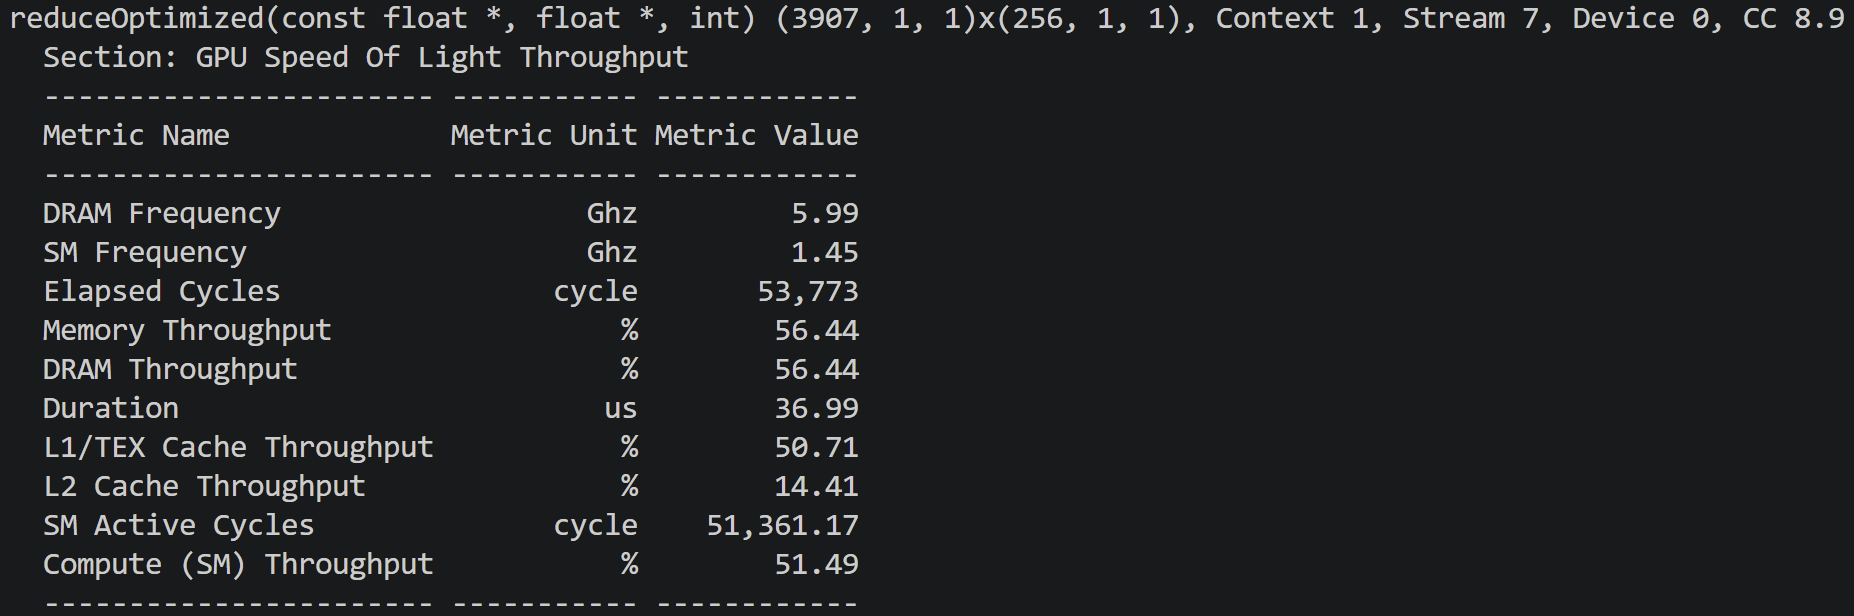
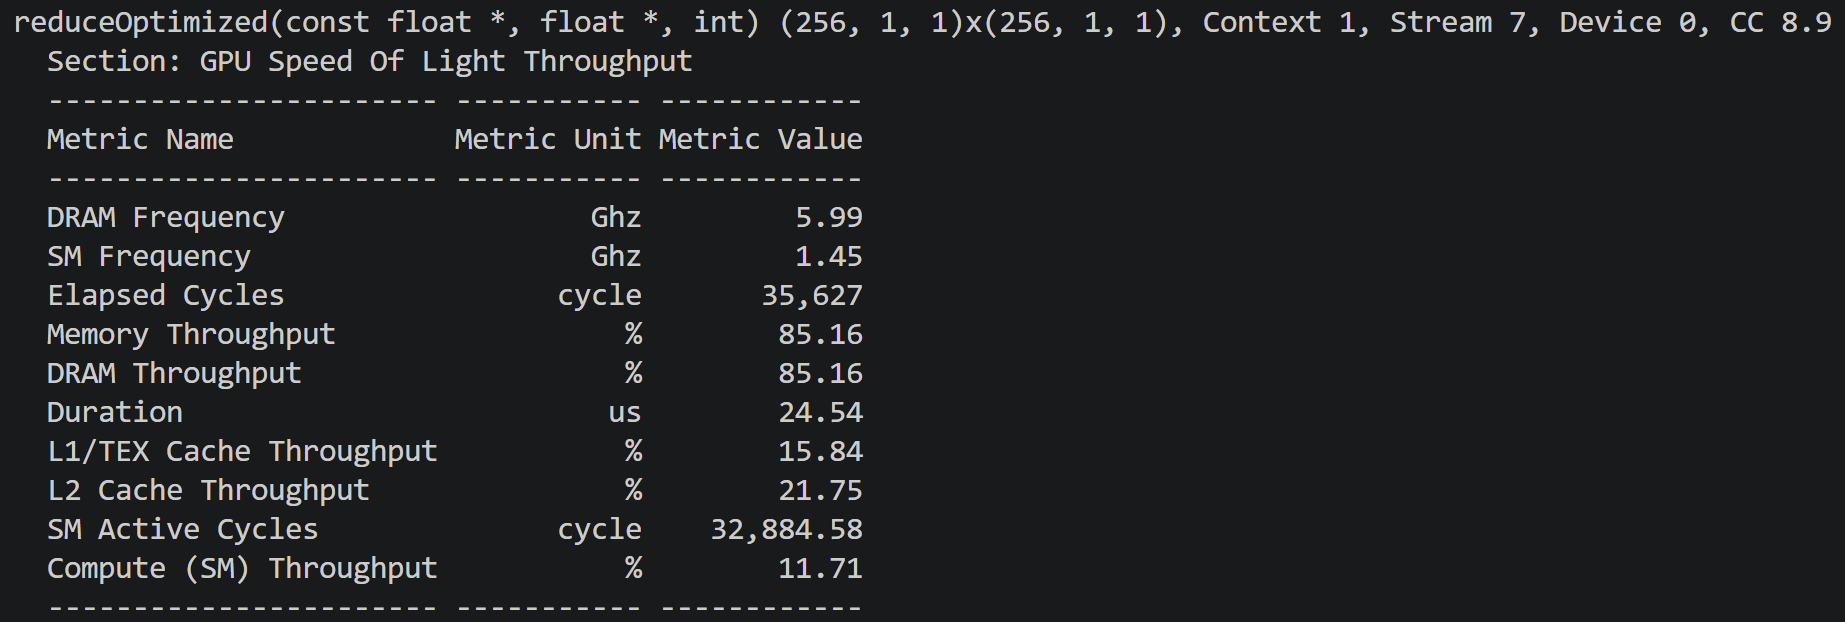
Modified blocks to 256 in Stage 3.

diff --git a/README.md b/README.md
@@ -9,8 +9,8 @@ using Nsight Compute to identify each bottleneck before fixing it.
 |-------|--------|----------|--------|------|---------|
 | 1 | Naive global atomics | 2050 µs | — | — | 1× |
 | 2 | Shared-memory tree | 56.8 µs | 37% | 88% | 36× |
-| 3 | Grid-stride + warp shuffle | 36.8 µs | 56% | 51% | 56× |
-| 4 | Vectorized float4 loads | 24.3 µs | 86% | 16% | 84× |
+| 3 | Grid-stride + warp shuffle | 24.54 µs | 85% | 16% | 84× |
+| 4 | Vectorized float4 loads | 24.32 µs | 86% | 16% | 84× |
 
 ## The optimization journey
 
@@ -25,12 +25,12 @@ atomic per block. Nsight revealed the new bottleneck: **L1 at 88%, DRAM only 37%
 ![Stage 2 Nsight profile: L1 at 88%, DRAM at 37%](images/stage2_shared_tree.png)
 — the kernel was limited by shared-memory traffic and `__syncthreads` overhead, not bandwidth.
 
-**3. Grid-stride + warp shuffle (36.8 µs, 56×).** Each thread sums multiple elements
+**3. Grid-stride + warp shuffle (24.54 µs, 84×).** Each thread sums multiple elements
 (coalesced grid-stride loads), and the final 32 elements reduce via `__shfl_down_sync`,
 eliminating shared memory and barriers for the last warp. 
 
 ![Stage 3 Nsight profile: L1 at 51%, DRAM at 56%](images/stage3_grid_stride.png)
-DRAM rose 37% → 56% as the bottleneck shifted toward memory.
+DRAM rose 37% → 85% as the bottleneck shifted toward memory.
 
 **4. Vectorized float4 loads (24.3 µs, 84×).** Each thread loads 128 bits (four floats)
 per instruction. **DRAM throughput reached 86%**
